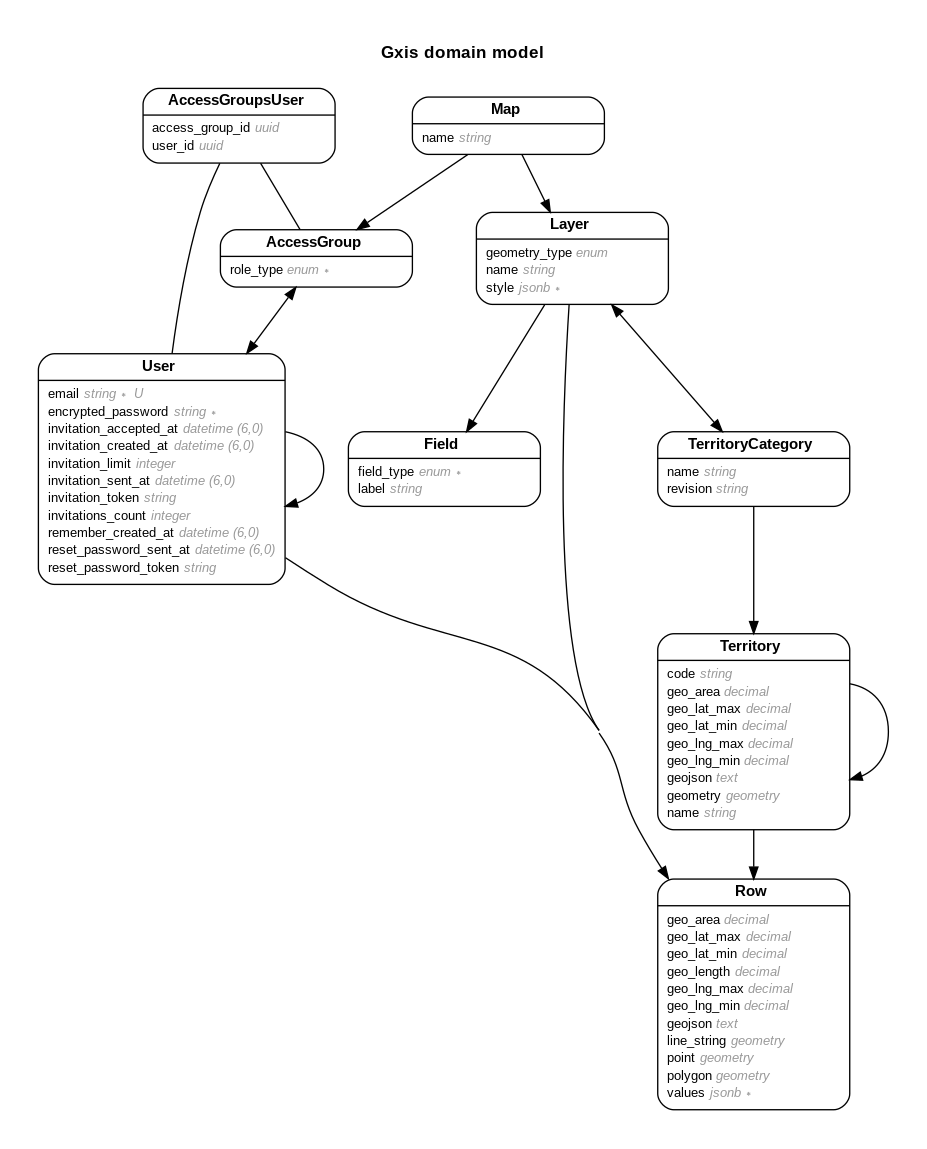
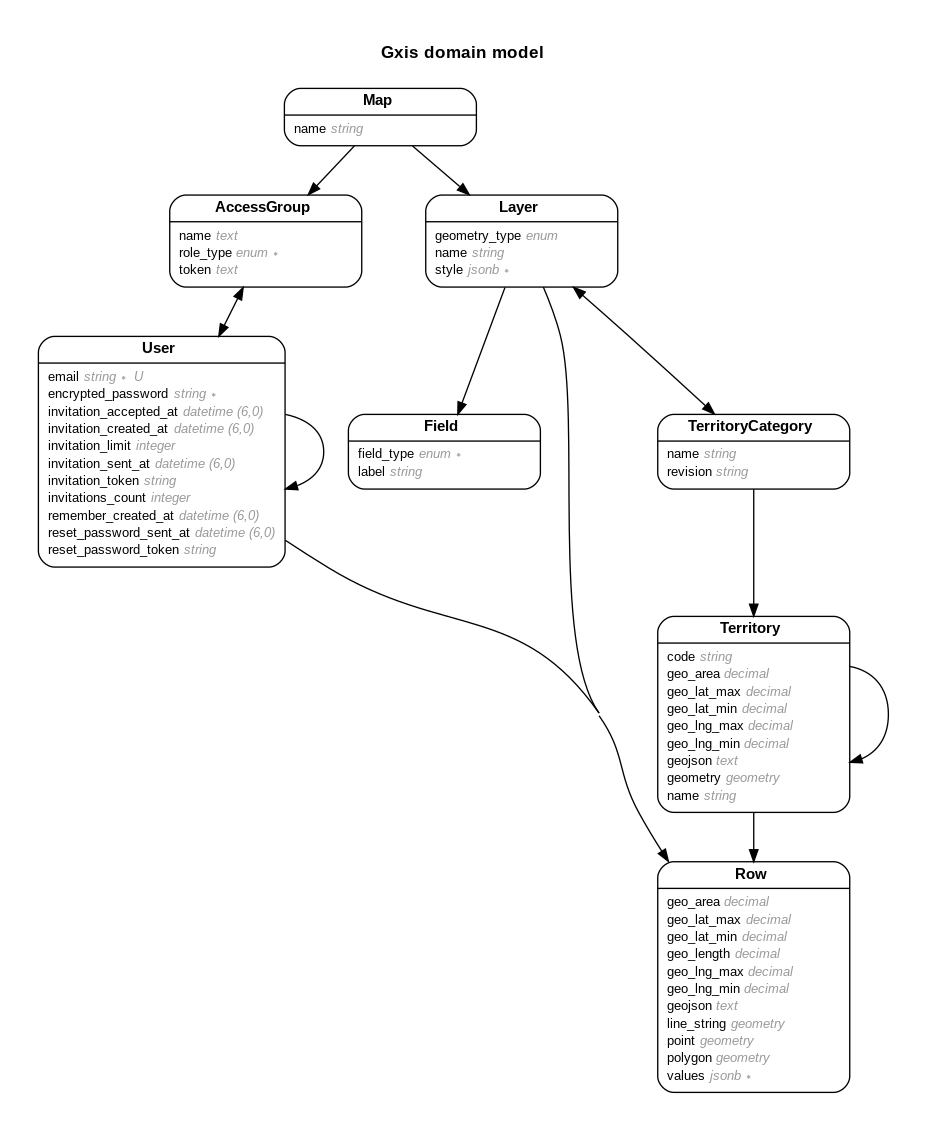
Anonymous access: generate links

diff --git a/app/assets/stylesheets/application.scss b/app/assets/stylesheets/application.scss
@@ -286,3 +286,20 @@ textarea[readonly] {
   gap: 2rem;
   align-items: center;
 }
+
+.input-with-button {
+  display: flex;
+  input {
+    margin-right: -40px;
+    padding-right: 40px;
+  }
+  button {
+    top: 1px;
+    right: -1px;
+    width: 38px;
+    height: 38px;
+    margin: 0;
+    position: relative;
+    padding: 8px;
+  }
+}

diff --git a/app/javascript/controllers/clipboard_controller.js b/app/javascript/controllers/clipboard_controller.js
@@ -1,0 +1,10 @@
+// src/controllers/clipboard_controller.js
+import { Controller } from '@hotwired/stimulus'
+
+export default class extends Controller {
+  static targets = ['source']
+  copy (event) {
+    event.preventDefault()
+    navigator.clipboard.writeText(this.sourceTarget.value)
+  }
+}

diff --git a/app/controllers/access_groups_controller.rb b/app/controllers/access_groups_controller.rb
@@ -24,6 +24,21 @@ class AccessGroupsController < ApplicationController
     end
   end
 
+  # Someone access the page through a link
+  # If the user is signed in we add them to the users list of that access group
+  # Other wise, we create a user without email
+  def enter_by_link
+    skip_authorization
+    access_group = AccessGroup.find_by(token: params[:token])
+    if user_signed_in?
+      access_group.users << current_user unless access_group.users.exists?(current_user.id)
+    else
+      user = access_group.users.create(email: nil)
+      sign_in user
+    end
+    redirect_to access_group.map
+  end
+
   def update
     @map = @access_group.map
     if @access_group.update(update_access_group_params)
@@ -49,7 +64,13 @@ class AccessGroupsController < ApplicationController
   end
 
   def create_access_group_params
-    params.require(:access_group).permit(:role_type, users_attributes: [:email])
+    create_params = params.require(:access_group).permit(:role_type, :token, :name, users_attributes: [:email])
+    if (existing_user = User.find_by(email: create_params.dig(:users_attributes, "0", :email)))
+      create_params.delete(:users_attributes)
+      create_params[:users] = [existing_user]
+    end
+
+    create_params
   end
 
   def update_access_group_params

diff --git a/db/schema.rb b/db/schema.rb
@@ -10,7 +10,7 @@
 #
 # It's strongly recommended that you check this file into your version control system.
 
-ActiveRecord::Schema[7.0].define(version: 2022_09_21_131924) do
+ActiveRecord::Schema[7.0].define(version: 2022_09_26_102001) do
   # These are extensions that must be enabled in order to support this database
   enable_extension "pg_trgm"
   enable_extension "pgcrypto"
@@ -45,6 +45,8 @@ ActiveRecord::Schema[7.0].define(version: 2022_09_21_131924) do
     t.uuid "map_id", null: false
     t.datetime "created_at", null: false
     t.datetime "updated_at", null: false
+    t.text "token"
+    t.text "name"
     t.index ["map_id"], name: "index_access_groups_on_map_id"
   end
 
@@ -142,7 +144,7 @@ ActiveRecord::Schema[7.0].define(version: 2022_09_21_131924) do
   end
 
   create_table "users", id: :uuid, default: -> { "gen_random_uuid()" }, force: :cascade do |t|
-    t.string "email", default: "", null: false
+    t.string "email", default: ""
     t.string "encrypted_password", default: "", null: false
     t.string "reset_password_token"
     t.datetime "reset_password_sent_at"

diff --git a/app/models/user.rb b/app/models/user.rb
@@ -3,7 +3,7 @@
 # Table name: users
 #
 #  id                     :uuid             not null, primary key
-#  email                  :string           default(""), not null
+#  email                  :string           default("")
 #  encrypted_password     :string           default(""), not null
 #  invitation_accepted_at :datetime
 #  invitation_created_at  :datetime
@@ -47,5 +47,15 @@ class User < ApplicationRecord
   # Devise overrides
   def password_required?
     false
+  end
+
+  def email_required? = false
+
+  def display_name
+    if email
+      email.split("@")[0]
+    else
+      I18n.t("users.anonymous")
+    end
   end
 end

diff --git a/db/migrate/20220926102001_add_token_to_access_group.rb b/db/migrate/20220926102001_add_token_to_access_group.rb
@@ -1,0 +1,11 @@
+class AddTokenToAccessGroup < ActiveRecord::Migration[7.0]
+  def change
+    add_column :access_groups, :token, :text
+    add_column :access_groups, :name, :text
+
+    # We accept null emails because a user will be created when using a shared link
+    change_column_null :users, :email, true
+
+    add_index(:access_groups_users, [:access_group_id, :user_id], unique: true)
+  end
+end

diff --git a/test/models/user_test.rb b/test/models/user_test.rb
@@ -3,7 +3,7 @@
 # Table name: users
 #
 #  id                     :uuid             not null, primary key
-#  email                  :string           default(""), not null
+#  email                  :string           default("")
 #  encrypted_password     :string           default(""), not null
 #  invitation_accepted_at :datetime
 #  invitation_created_at  :datetime

diff --git a/app/models/access_group.rb b/app/models/access_group.rb
@@ -3,7 +3,9 @@
 # Table name: access_groups
 #
 #  id         :uuid             not null, primary key
+#  name       :text
 #  role_type  :enum             not null
+#  token      :text
 #  created_at :datetime         not null
 #  updated_at :datetime         not null
 #  map_id     :uuid             not null

diff --git a/test/models/access_group_test.rb b/test/models/access_group_test.rb
@@ -3,7 +3,9 @@
 # Table name: access_groups
 #
 #  id         :uuid             not null, primary key
+#  name       :text
 #  role_type  :enum             not null
+#  token      :text
 #  created_at :datetime         not null
 #  updated_at :datetime         not null
 #  map_id     :uuid             not null

diff --git a/app/controllers/layers_controller.rb b/app/controllers/layers_controller.rb
@@ -67,11 +67,7 @@ class LayersController < ApplicationController
   end
 
   def set_user_name
-    @user_name = if user_signed_in?
-      current_user.email.split("@")[0]
-    else
-      "anonymous"
-    end
+    @user_name = current_user.display_name
   end
 
   def layer_params

diff --git a/config/routes.rb b/config/routes.rb
@@ -30,6 +30,7 @@ Rails.application.routes.draw do
       end
     end
     get "/:locale" => "main#index"
+    get "share/:token", to: "access_groups#enter_by_link", as: "share_link"
   end
 
   if Rails.env.development?
